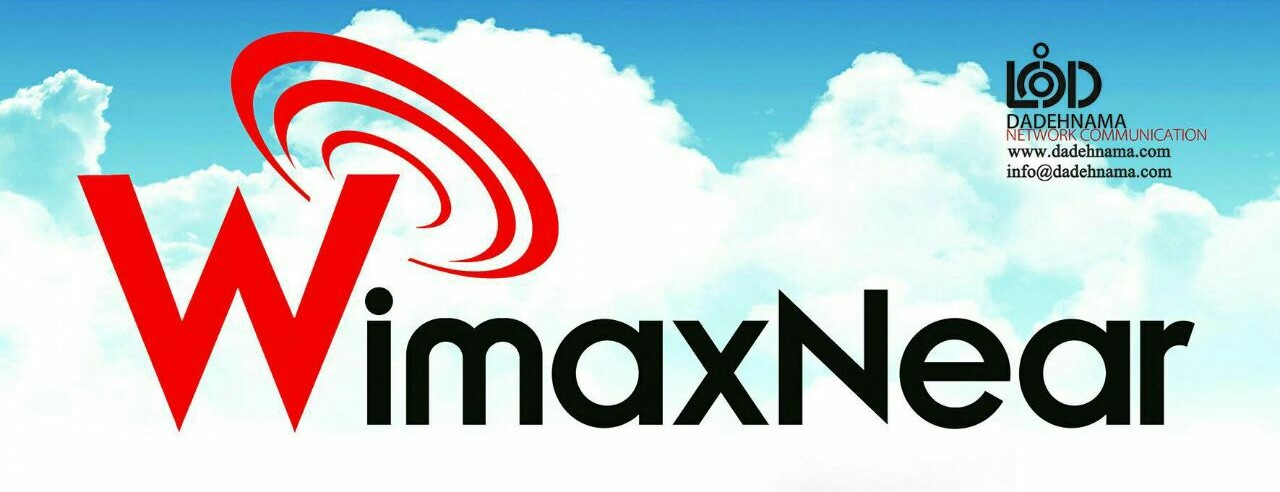
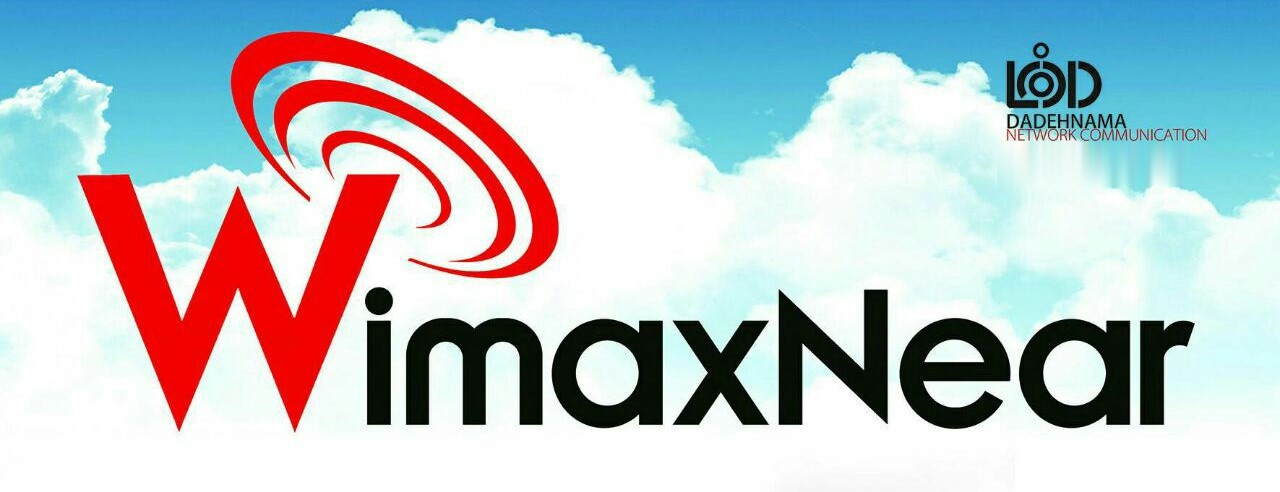
بازسازی: صفحهٔ WimaxNear به صفحهٔ پرزنتِ واقعیِ برند + پاککردنِ ایمیلِ داخلِ پیکسلهای بنر

Changed region(s): [[0.7812, 0.2744, 0.9375, 0.3963]]

diff --git a/src/main/resources/templates/wimaxnear.html b/src/main/resources/templates/wimaxnear.html
@@ -30,29 +30,80 @@
     <link href="/css/fonts/Vazirmatn-font-face.css" rel="stylesheet">
     <link href="/css/site-nav.css" rel="stylesheet">
     <style>
-        :root { --primary:#1b4f8a; --accent:#e8861a; --text:#1f2937; --mid:#6b7280; --bg:#f6f8fb; --border:#e5e7eb; }
+        :root { --primary:#1b4f8a; --primary-lt:#2563ad; --accent:#e8861a; --text:#1f2937;
+                --mid:#6b7280; --bg:#f6f8fb; --border:#e5e7eb; --radius:16px; }
         * { box-sizing:border-box; margin:0; }
         body { font-family:Vazirmatn, Tahoma, sans-serif; background:var(--bg); color:var(--text); }
-        main { max-width:920px; margin:0 auto; padding:28px 16px 8px; }
+        main { max-width:980px; margin:0 auto; padding:24px 16px 8px; }
         .crumb { font-size:.8rem; color:var(--mid); margin-bottom:16px; }
         .crumb a { color:var(--primary); text-decoration:none; }
-        .hero-banner { width:100%; border-radius:16px; overflow:hidden; margin-bottom:24px; box-shadow:0 10px 26px rgba(27,79,138,.12); }
+
+        .hero-banner { width:100%; border-radius:var(--radius); overflow:hidden; margin-bottom:22px;
+                       box-shadow:0 10px 26px rgba(27,79,138,.12); }
         .hero-banner img { display:block; width:100%; height:auto; }
-        h1 { font-size:1.5rem; line-height:1.7; margin-bottom:12px; }
-        .lead { font-size:.98rem; line-height:2.1; margin-bottom:8px; }
+
+        h1 { font-size:1.55rem; line-height:1.75; margin-bottom:10px; }
+        .lead { font-size:1rem; line-height:2.1; color:#374151; }
+
+        /* نوارِ ادعاهایِ کلیدی — عددها از دیتاشیتِ خودِ محصول میآیند */
+        .keyfacts { display:grid; grid-template-columns:repeat(auto-fit, minmax(150px, 1fr));
+                    gap:12px; margin-top:20px; }
+        .keyfacts div { background:#fff; border:1px solid var(--border); border-radius:12px;
+                        padding:14px 12px; text-align:center; }
+        .keyfacts b { display:block; font-size:1.15rem; color:var(--primary); margin-bottom:3px;
+                      letter-spacing:.2px; }
+        .keyfacts span { font-size:.78rem; color:var(--mid); }
+
+        section { background:#fff; border:1px solid var(--border); border-radius:var(--radius);
+                  padding:22px; margin-top:22px; }
+        section h2 { font-size:1.12rem; margin-bottom:14px; border-right:4px solid var(--accent);
+                     padding-right:10px; }
+        section h3 { font-size:.95rem; margin:18px 0 8px; color:var(--primary); }
         p { line-height:2.1; font-size:.93rem; }
-        section { background:#fff; border:1px solid var(--border); border-radius:16px; padding:22px; margin-top:22px; }
-        section h2 { font-size:1.1rem; margin-bottom:12px; border-right:4px solid var(--accent); padding-right:10px; }
+
+        /* جدولها روی موبایل افقی اسکرول میشوند، بدنهی صفحه هرگز نه */
+        .tw { overflow-x:auto; -webkit-overflow-scrolling:touch; margin-top:6px; }
+        table { border-collapse:collapse; width:100%; min-width:520px; font-size:.86rem; }
+        caption { caption-side:top; text-align:right; font-size:.82rem; color:var(--mid);
+                  padding-bottom:8px; }
+        th, td { border:1px solid var(--border); padding:9px 10px; text-align:right; }
+        thead th { background:#eef3fa; color:var(--primary); font-weight:800; white-space:nowrap; }
+        tbody th { background:#fafbfd; font-weight:700; white-space:nowrap; }
+        tbody tr:nth-child(even) td { background:#fcfdfe; }
+        td.num { font-variant-numeric:tabular-nums; white-space:nowrap; }
+
+        .charts { display:grid; gap:14px; margin-top:8px; }
+        .charts figure { margin:0; border:1px solid var(--border); border-radius:12px;
+                         overflow:hidden; background:#fff; }
+        .charts img { display:block; width:100%; height:auto; }
+        .charts figcaption { font-size:.78rem; color:var(--mid); padding:9px 12px;
+                             border-top:1px solid var(--border); line-height:1.8; }
+
+        ul.use { list-style:none; padding:0; margin-top:6px; }
+        ul.use li { position:relative; padding:7px 22px 7px 0; font-size:.91rem; line-height:1.9; }
+        ul.use li::before { content:""; position:absolute; right:4px; top:16px; width:8px; height:8px;
+                            border-radius:2px; background:var(--accent); }
+
         .tags { display:flex; flex-wrap:wrap; gap:8px; margin-top:14px; }
-        .tags span { background:#eef3fa; color:var(--primary); border-radius:100px; padding:5px 13px; font-size:.8rem; font-weight:700; }
+        .tags span { background:#eef3fa; color:var(--primary); border-radius:100px;
+                     padding:5px 13px; font-size:.8rem; font-weight:700; }
+
         .cta { display:flex; flex-wrap:wrap; gap:12px; margin-top:26px; }
-        .cta a { padding:12px 22px; border-radius:100px; text-decoration:none; font-weight:700; font-size:.9rem; }
+        .cta a { padding:12px 22px; border-radius:100px; text-decoration:none; font-weight:700;
+                 font-size:.9rem; }
         .cta .fill { background:var(--primary); color:#fff; }
         .cta .out { background:#fff; color:var(--primary); border:1px solid var(--primary); }
+
         footer { background:#1b2a3a; color:#cbd5e1; padding:28px 16px; margin-top:40px; }
-        footer .in { max-width:920px; margin:0 auto; }
+        footer .in { max-width:980px; margin:0 auto; }
         footer nav { display:flex; flex-wrap:wrap; gap:8px 16px; margin-top:10px; }
         footer a { color:#cbd5e1; text-decoration:none; font-size:.8rem; }
+
+        @media (max-width:640px) {
+            h1 { font-size:1.25rem; }
+            section { padding:18px 14px; }
+            .keyfacts b { font-size:1rem; }
+        }
     </style>
 </head>
 <body>
@@ -75,31 +126,129 @@
     </nav>
 
     <div class="hero-banner">
-        <img src="/img/wimaxnear-banner.jpg" alt="WimaxNear — رادیوی حرفهای، خط تولید دادهنما">
+        <img src="/img/wimaxnear-banner.jpg" width="1280" height="492" fetchpriority="high"
+             alt="WimaxNear — برندِ آنتنهای دوقطبیِ پهنباندِ دادهنما">
     </div>
 
-    <h1>WimaxNear — رادیوی حرفهای، خط تولید خودِ دادهنما</h1>
+    <h1>WimaxNear — آنتنِ دوقطبیِ پهنباند، برندِ خودِ دادهنما</h1>
 
     <p class="lead">
-        از سال ۱۳۸۰ کارِ ما ارتباطاتِ بیسیم است. در همین مسیر، دادهنما خطِ تولیدِ رادیویِ حرفهایِ
-        <b>WimaxNear</b> را راه انداخته — محصولی که کنارِ نمایندگیِ تجهیزاتِ برندهایِ جهانی
-        (میکروتیک و سایرین)، حاصلِ تجربهی مستقیمِ ما در اجرایِ لینکهایِ رادیوییِ پرظرفیت است.
+        دادهنما از سال ۱۳۸۰ لینکهای رادیوییِ پرظرفیت را طراحی و اجرا کرده است. <b>WimaxNear</b>
+        برندِ خودِ ماست: خانوادهای از آنتنهای دیشِ دوقطبیِ پهنباند در بازهٔ ۴٫۸ تا ۶٫۲ گیگاهرتز
+        که دادهنما مونتاژ و عرضه میکند — نتیجهٔ همان چیزی که سالها در میدان با آن کار کردهایم.
     </p>
 
+    <div class="keyfacts">
+        <div><b>۴٫۸ – ۶٫۲ GHz</b><span>بازهٔ کاریِ پیوسته</span></div>
+        <div><b>۲۵ تا ۳۴ dBi</b><span>گسترهٔ بهرهٔ خانواده</span></div>
+        <div><b>دوقطبی (V &amp; H)</b><span>آمادهٔ رادیوهای MIMO</span></div>
+        <div><b>۲۰۰ km/h</b><span>تحملِ بارِ باد</span></div>
+    </div>
+
     <section>
-        <h2>چرا WimaxNear</h2>
+        <h2>از اجرایِ لینک، تا ساختِ آنتن</h2>
         <p>
-            بیش از دو دهه، تیمِ دادهنما لینکهایِ رادیوییِ پرظرفیت را برایِ اتصالِ شعب و کارخانهها،
-            انتقالِ داده/صوت/اینترنت، و پروژههایِ ارتباطاتِ بیسیم اجرا کرده است. WimaxNear خروجیِ
-            همین تجربه است — رادیویی که خودِ دادهنما طراحی و تولید میکند، نه صرفاً واردات یا نمایندگی.
+            بیشترِ ناپایداریِ لینکهای وایرلس ریشه در خودِ آنتن دارد: جدایشِ ناکافیِ پلاریته، پرتوِ
+            جانبیِ بلند، و افتِ بهره در لبههای بازهٔ فرکانسی. تیمِ دادهنما این را نه از کاتالوگ،
+            که از پروژههای واقعی — اتصالِ شعب و کارخانهها، لینکهای شهری و مسیرهای طولانی —
+            یاد گرفته است. WimaxNear پاسخِ همان تجربه است: آنتنی که مشخصاتش با معیارِ همان
+            لینکهایی انتخاب شده که خودمان اجرا و پشتیبانی میکنیم.
         </p>
         <div class="tags">
-            <span>ارتباطاتِ بیسیم</span><span>خطِ تولیدِ داخلی</span><span>لینکِ رادیوییِ پرظرفیت</span>
+            <span>برندِ اختصاصیِ دادهنما</span><span>دوقطبیِ پهنباند</span>
+            <span>کاربردِ تجاری و نظامی</span><span>سازگار با ETSI EN 302.326-3</span>
         </div>
     </section>
 
+    <section>
+        <h2>خانوادهٔ محصول SP62</h2>
+
+        <h3>مدلهای دوقطبیِ پهنباند</h3>
+        <div class="tw">
+            <table>
+                <caption>ارقام از دیتاشیتِ رسمیِ هر مدل. بهره در سرتاسرِ بازه اندازهگیری شده، نه در یک نقطه.</caption>
+                <thead>
+                <tr><th>مدل</th><th>بهره</th><th>قطرِ دیش</th><th>وزن</th>
+                    <th>پهنای پرتوِ ۳dB</th><th>بازهٔ فرکانسی</th></tr>
+                </thead>
+                <tbody>
+                <tr><th>SP62-27D</th><td class="num">۲۵٫۲ – ۲۷٫۷ dBi</td><td class="num">۴۵ cm</td>
+                    <td class="num">۳ kg</td><td class="num">۸°</td><td class="num">۴۸۰۰ – ۶۲۰۰ MHz</td></tr>
+                <tr><th>SP62-28D</th><td class="num">۲۷٫۳ – ۲۹٫۱ dBi</td><td class="num">۵۵ cm</td>
+                    <td class="num">۴ kg</td><td class="num">۹°</td><td class="num">۴۸۰۰ – ۶۲۰۰ MHz</td></tr>
+                <tr><th>SP62-32D</th><td class="num">۳۰٫۲ – ۳۲٫۲ dBi</td><td class="num">۸۰ cm</td>
+                    <td class="num">۶٫۵ kg</td><td class="num">۴٫۱°</td><td class="num">۴۸۰۰ – ۶۲۰۰ MHz</td></tr>
+                <tr><th>SP62-34.5D Ultra-HP</th><td class="num">۳۴ dBi</td><td class="num">۱۱۰ cm</td>
+                    <td class="num">۲۵ kg</td><td class="num">۳٫۰°</td><td class="num">۴۸۰۰ – ۶۱۰۰ MHz</td></tr>
+                </tbody>
+            </table>
+        </div>
+
+        <h3>مقایسهٔ دو سریِ خانواده</h3>
+        <div class="tw">
+            <table>
+                <caption>سریِ High Performance برای محیطهای پرنویز بهینه شده و جدایشِ پورتبهپورتِ آن جداگانه تضمین میشود.</caption>
+                <thead>
+                <tr><th>پارامتر</th><th>سریِ پهنباند (Broadband)</th><th>سریِ High Performance</th></tr>
+                </thead>
+                <tbody>
+                <tr><th>بازهٔ فرکانسی</th><td class="num">۴۸۰۰ – ۶۲۰۰ MHz</td><td class="num">۴۸۰۰ – ۶۱۰۰ MHz</td></tr>
+                <tr><th>بهرههای موجود</th><td class="num">۲۷ / ۲۸ / ۳۰ / ۳۲ / ۳۳ dBi</td><td class="num">۲۳ / ۲۶ / ۲۹ / ۳۲ dBi</td></tr>
+                <tr><th>VSWR</th><td class="num">۱٫۷:۱ (typ)</td><td class="num">۱٫۴:۱ (typ)</td></tr>
+                <tr><th>توانِ ورودی</th><td class="num">۱۰۰ W</td><td class="num">۲۵ W</td></tr>
+                <tr><th>نسبت جلو به عقب</th><td class="num">−۴۰ dB</td><td class="num">−۳۷ تا −۴۰ dB</td></tr>
+                <tr><th>پلاریزاسیونِ متقاطع</th><td class="num">−۳۰ dB</td><td class="num">−۲۸ (max) / −۳۲ (typ) dB</td></tr>
+                <tr><th>جدایشِ پورتبهپورت</th><td>در دیتاشیت قید نشده</td><td class="num">−۳۲ (max) / −۴۵ (typ) dB</td></tr>
+                <tr><th>امپدانس</th><td class="num">۵۰ Ω</td><td class="num">۵۰ Ω</td></tr>
+                <tr><th>کانکتور</th><td>۲ × N-Female</td><td>۲ × N-Female</td></tr>
+                <tr><th>ردهٔ پرتوِ جانبی</th><td>ETSI EN 302.326-3 DN1-DN5</td><td>ETSI EN 302.326-3 DN1-DN5</td></tr>
+                <tr><th>جنسِ دیش</th><td>آلیاژ آلومینیوم</td><td>آلیاژ آلومینیوم</td></tr>
+                <tr><th>تحملِ باد</th><td class="num">۲۰۰ km/h</td><td class="num">۲۰۰ km/h</td></tr>
+                </tbody>
+            </table>
+        </div>
+    </section>
+
+    <section>
+        <h2>نمودارهای اندازهگیریِ آزمایشگاه</h2>
+        <p>
+            این نمودارها از آزمایشِ واقعیِ آنتن گرفته شدهاند، نه از شبیهسازی. نکتهٔ مهمشان
+            <b>ثباتِ رفتار در سرتاسرِ بازه</b> است: بسیاری از آنتنها فقط در فرکانسِ مرکزی
+            عددِ خوب میدهند و در لبهها افت میکنند.
+        </p>
+        <div class="charts">
+            <figure>
+                <img src="/img/wimaxnear/pattern-polar.jpg" loading="lazy" width="558" height="266"
+                     alt="الگویِ تشعشعِ قطبیِ آنتن WimaxNear در صفحاتِ E و H در فرکانس ۵٫۵ گیگاهرتز">
+                <figcaption>
+                    الگویِ تشعشع در صفحاتِ E و H (۵٫۵ گیگاهرتز) — پرتوِ اصلیِ باریک و پرتوهای جانبیِ
+                    کوتاه، یعنی انرژی بهجای پخششدن در محیط، روی مسیرِ لینک متمرکز میماند.
+                </figcaption>
+            </figure>
+            <figure>
+                <img src="/img/wimaxnear/charts-sweep.jpg" loading="lazy" width="1082" height="205"
+                     alt="نمودارهای پلاریزاسیونِ متقاطع، جدایشِ پورتبهپورت و VSWR آنتن WimaxNear در بازهٔ ۴۸۰۰ تا ۶۱۰۰ مگاهرتز">
+                <figcaption>
+                    از راست به چپ: پلاریزاسیونِ متقاطع، جدایشِ پورتبهپورت، و VSWR — هر سه در کلِ
+                    بازهٔ ۴۸۰۰ تا ۶۱۰۰ مگاهرتز جاروب شدهاند. VSWR در تمامِ بازه زیرِ ۲ میماند.
+                </figcaption>
+            </figure>
+        </div>
+    </section>
+
+    <section>
+        <h2>کجا به کار میآید</h2>
+        <ul class="use">
+            <li>لینکهای نقطهبهنقطهٔ شهری، جایی که آلودگیِ فرکانسی بالاست و جدایشِ پلاریته تعیینکننده است.</li>
+            <li>مسیرهای طولانی و لینکهای روی دریا، که به بهرهٔ بالا و پرتوِ باریک نیاز دارند.</li>
+            <li>رادیوهای MIMO با دو پورتِ مجزا — ساختارِ دوقطبیِ آنتن دقیقاً برای همین است.</li>
+            <li>محیطهای پرنویز، که سریِ High Performance با جدایشِ پورتِ بهتر برایشان ساخته شده.</li>
+            <li>کاربردهای تجاری و نظامی، با سازهٔ مقاوم و تحملِ بادِ ۲۰۰ کیلومتر بر ساعت.</li>
+        </ul>
+    </section>
+
     <div class="cta">
-        <a class="fill" href="/shop">مشاهدهی فروشگاه ❯</a>
+        <a class="fill" href="/shop">آنتنها در فروشگاه ❯</a>
         <a class="out" href="/about">سابقه و اعتبار دادهنما ❯</a>
     </div>
 </main>

diff --git a/src/main/java/org/example/shop1/controller/StoreWebController.java b/src/main/java/org/example/shop1/controller/StoreWebController.java
@@ -606,14 +606,18 @@ public class StoreWebController {
             new CourseTrack("MTCUME", "مدیریت کاربران میکروتیک", 2, "شهریور ۱۳۹۴", "دی ۱۳۹۴", "mtcume-course")
     );
 
-    // صفحهی معرفیِ WimaxNear — خطِ تولیدِ رادیویِ خودِ دادهنما (بخشی از نوارِ هویتِ سایت)
+    // صفحهی معرفیِ WimaxNear — برندِ خودِ دادهنما (بخشی از نوارِ هویتِ سایت).
+    // 🔴 متنِ سئو عمداً «آنتن» میگوید و نه «رادیو»، و «مونتاژ» و نه «تولید» —
+    // چون تنها سندِ موجود (کاتالوگِ خودِ شرکت + دیتاشیتِ مدلها) همین را میگوید:
+    // «مونتاژ و فروش رادیوهای حرفهای WimaxNear»، و همهی دیتاشیتها آنتنِ دیشاند.
+    // اگر بعداً سندی برای رادیوهایِ WimaxNear رسید، صفحه و این متن باید گسترده شود.
     @GetMapping("/wimaxnear")
     public String wimaxNearPage(Model model, HttpServletRequest request) {
         addDynamicUrls(model, request);
         String baseUrl = buildBaseUrl(request);
-        model.addAttribute("seoTitle", "WimaxNear | رادیوی حرفهای، خط تولید داده نما");
+        model.addAttribute("seoTitle", "WimaxNear | آنتنهای دوقطبیِ پهنباندِ دادهنما");
         model.addAttribute("seoDescription",
-                "WimaxNear رادیوی حرفهای و خط تولید خودِ دادهنما است — حاصلِ بیش از دو دهه تجربه در اجرای لینکهای رادیویی پرظرفیت.");
+                "خانوادهٔ آنتنِ دیشِ SP62 با برندِ WimaxNear دادهنما — دوقطبی، ۴٫۸ تا ۶٫۲ گیگاهرتز، بهرهٔ ۲۵ تا ۳۴ dBi، سازگار با ETSI EN 302.326-3، همراه با نمودارهای اندازهگیریِ آزمایشگاه.");
         model.addAttribute("canonicalUrl", baseUrl + "/wimaxnear");
         return "wimaxnear";
     }

diff --git a/docs/CHANGELOG.md b/docs/CHANGELOG.md
@@ -28,6 +28,11 @@
 - امنیت: نوشتنهای ادمین باید ROLE_ADMIN باشند. ✅ `POST/PUT/DELETE /api/v1/products` اکنون ADMIN است (رفع در 2026-07-23، کامیت 5d3d657).
 
 ## لاگ کارها
+- 2026-09-04 — [مدیر/محتوا+سئو] 📡 **بازسازیِ کاملِ صفحهٔ `/wimaxnear`** از یک صفحهٔ دوپاراگرافی به صفحهٔ پرزنتِ واقعیِ برند. منابع: کاتالوگِ ۲۴صفحهایِ ۲۰۱۶ِ شرکت (ص۲ فعالیتها، ص۹ و ۱۰ اسپکِ آنتن) + چهار دیتاشیتِ تکمدل + `35D.pdf`. بخشها: هیرو و چهار عددِ کلیدی · روایتِ «از اجرایِ لینک تا ساختِ آنتن» · جدولِ خانوادهٔ SP62 (۲۷D/۲۸D/۳۲D/۳۴٫۵D-Ultra-HP با بهره، قطر، وزن، پهنای پرتو) · جدولِ مقایسهٔ دو سریِ Broadband و High Performance (۱۲ پارامتر) · نمودارهای واقعیِ آزمایشگاه · کاربردها.
+  **🔒 قانونِ ضدِ دورزدن — نقضِ زنده بسته شد.** `/img/wimaxnear-banner.jpg` که از قبل روی سایت بود، `www.dadehnama.com` و **`info@dadehnama.com`** را داخلِ خودِ پیکسلها داشت (سه بار در جلسات قبل پرسیده و بیپاسخ مانده بود). دو خطِ تماس با درونیابیِ عمودیِ ستونبهستون پاک شد؛ لوگو و «DADEHNAMA NETWORK COMMUNICATION» دستنخورده ماند. نسخهٔ اصلی در تاریخچهٔ گیت هست. **درسِ کلی: هر تصویری که وارد سایت میشود باید از نظرِ متنِ داخلِ پیکسل هم بازبینی شود، نه فقط متنِ کنارش.**
+  **✍ دو ادعا تصحیح شد (سندمحور):** صفحه و متنِ سئو قبلاً میگفتند WimaxNear «رادیو» و «خطِ تولیدِ» دادهنماست. تنها سندِ موجود (کاتالوگِ خودِ شرکت، ص۲ بندِ ۴) میگوید «**مونتاژ** و فروشِ رادیوهای حرفهای WimaxNear» و هر پنج دیتاشیتِ موجود **آنتنِ دیش**اند. پس متن به «برندِ خودِ دادهنما» و «مونتاژ و عرضه» تغییر کرد و سئو از «رادیو» به «آنتن». اگر سندی برایِ رادیوهای WimaxNear وجود دارد، صفحه باید گسترده شود.
+  **🖼 دو تصویرِ جدید** از کاتالوگ بریده و به `static/img/wimaxnear/` اضافه شد: الگویِ قطبیِ صفحاتِ E و H، و جاروبِ سهگانهٔ پلاریزاسیونِ متقاطع/جدایشِ پورت/VSWR. اسپکِ عددی عمداً **متنِ HTML** است نه عکس — هم خزیدنی، هم روی موبایل خوانا.
+  **⏳ ناتمام:** در لحظهٔ کار داکر پایین بود (چت الف مشغول بود) پس صفحه در مرورگر تأیید نشده — فقط `mvn compile` سبز است. قدمِ بعدی: بالا آمدنِ داکر، بازدیدِ `/wimaxnear`، و لینککردنِ هر ردیفِ جدول به محصولِ متناظرش در فروشگاه (محصولاتِ SP62 الان زیرِ برندِ «نیر» در فروشگاهاند — باید بررسی شود که آیا همان خانوادهاند یا نه).
 - 2026-09-03 — [مدیر/زیرساخت] 🏠 **بازکردنِ قفلِ Host برایِ آدرسهایِ لوپبک و شبکهٔ خصوصی** در `nginx/nginx.conf` (تصمیمِ مالک). تا پیش از این فقط `localhost` جواب میداد؛ `127.0.0.1` و آیپیِ وایفایِ دستگاه به بلاکِ `return 444` میخوردند و در مرورگر **صفحهٔ سفید** میدادند — علامتی که بهراحتی با خرابیِ داکر اشتباه میشود (نشانهٔ تفکیک: در curl خروجِ ۵۲ «Empty reply from server»، و اینکه درخواست در لاگِ nginx **ظاهر میشود**).
   بهجایِ افزودنِ آیپیِ ثابت، یک رجکسِ RFC1918 اضافه شد (`127.` / `10.` / `192.168.` / `172.16–31.`) چون آیپیِ وایفای با هر تمدیدِ DHCP عوض میشود. فایل بایند-مانت است، پس فقط `docker exec shop_nginx nginx -s reload` لازم بود — بدونِ ریبیلد و بدونِ ریاستارتِ کانتینر. هر چهار آدرس تست شد: ۲۰۰ (هم مستقیم هم از پشتِ پروکسیِ سیستم). حالا بازکردنِ اپ از موبایلِ همان وایفای هم ممکن است.
   **🔑 ریشه هنوز باز است:** `buildBaseUrl` همچنان به هدرِ `Host` اعتماد میکند و canonical/og را از رویش میسازد؛ یعنی همین فهرستِ سفیدِ nginx تنها خطِ دفاع است. پذیرشِ آدرسهایِ خصوصی بیخطر است (بازدیدکنندهٔ بیرونی نمیتواند از آنها استفاده کند)، ولی **فهرست را بیدلیل گشادتر نکنید**. کارِ درست برایِ چت الف: خواندنِ آدرسِ پایه از env بهجایِ هدرِ Host — بعد از آن این قفل دیگر باربر نیست.
